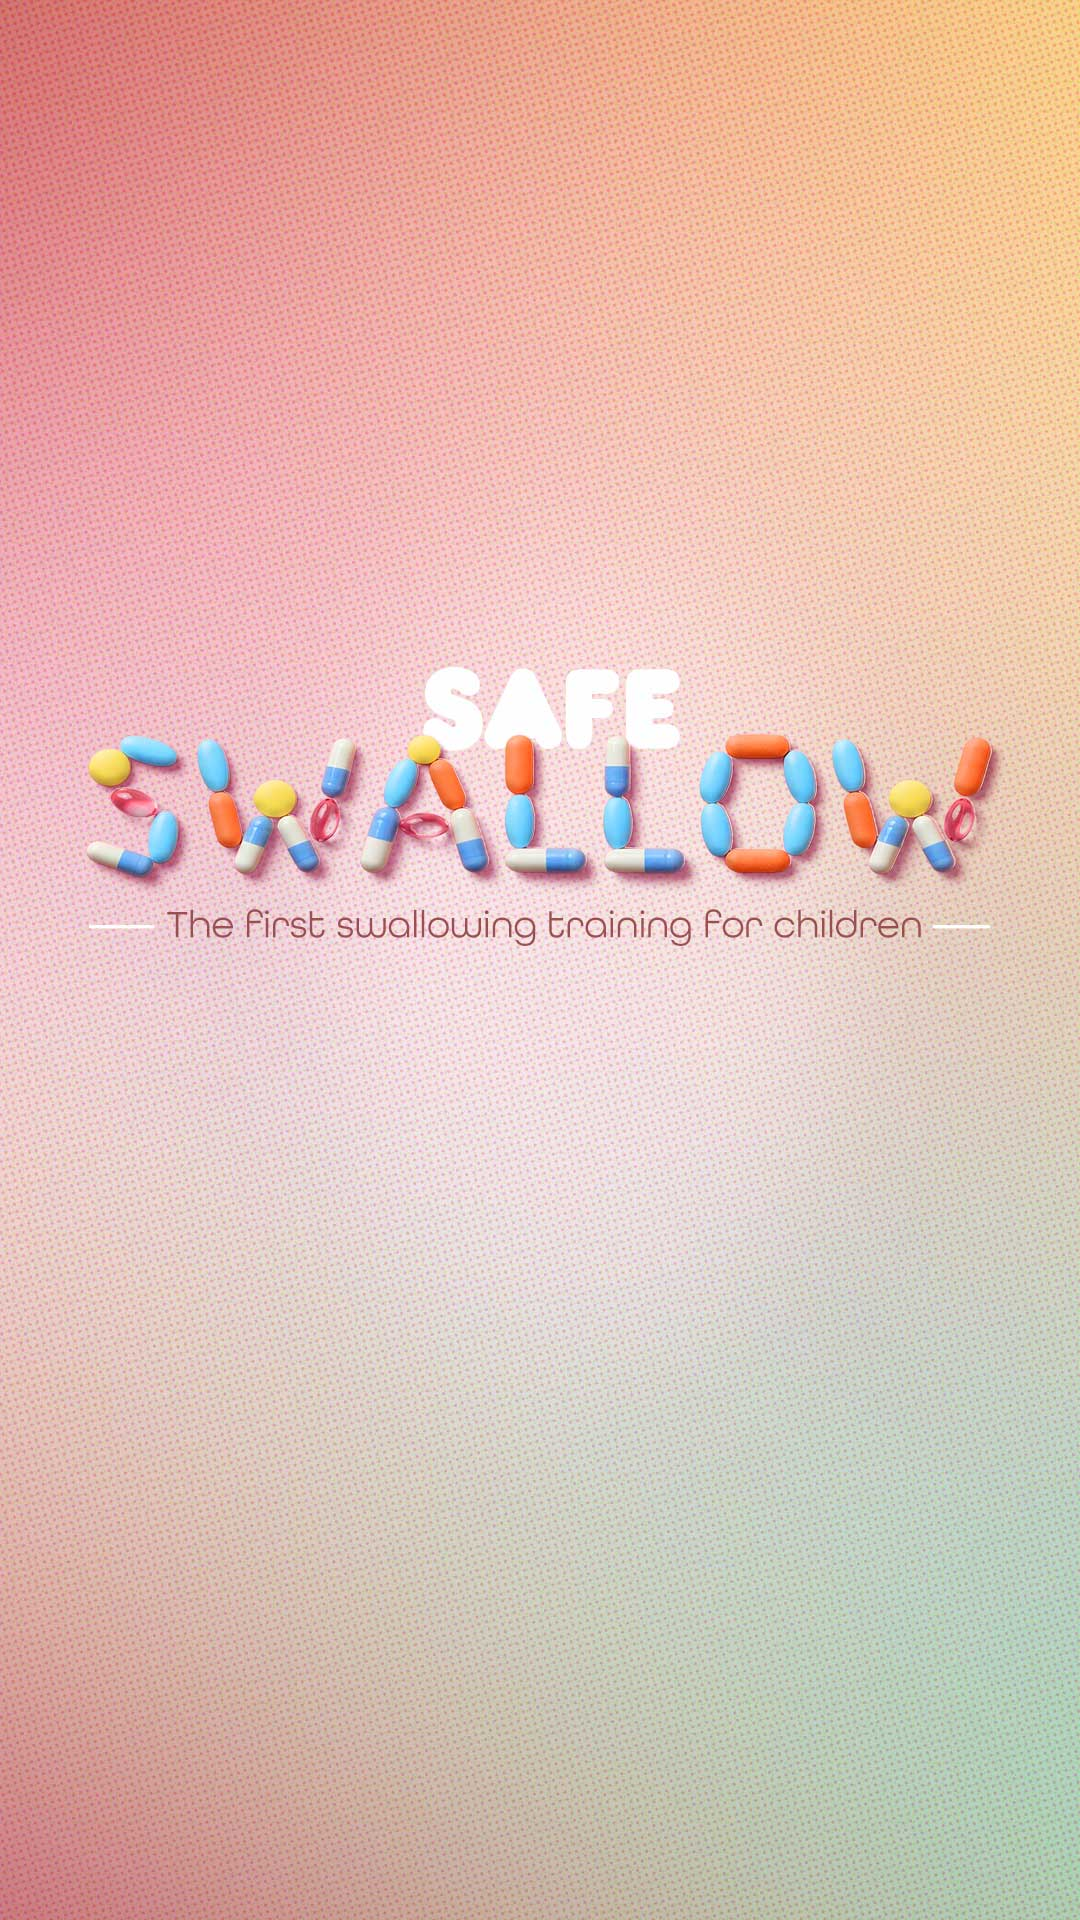
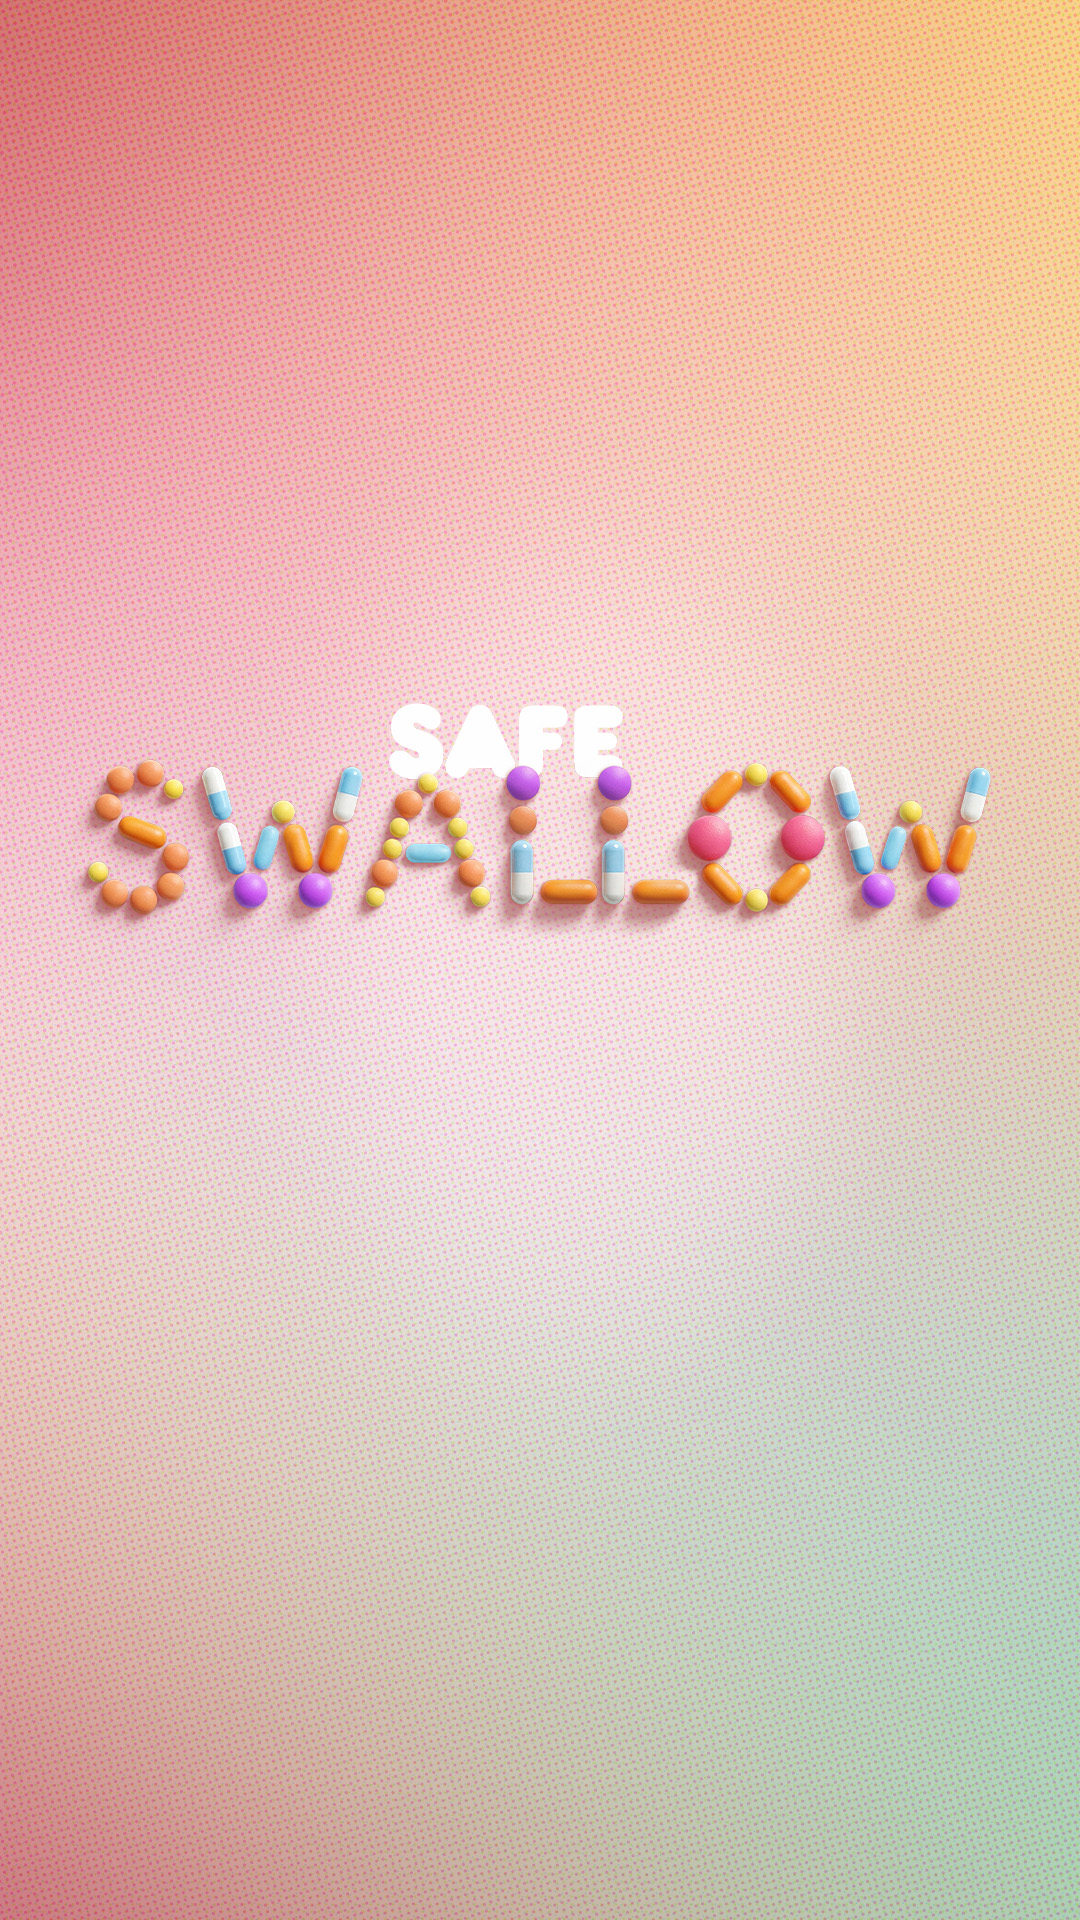
Atualiza imagens: bgCaixas para tela de caixas

Changed region(s): [[0.0611, 0.3438, 0.9472, 0.5], [0.0306, 0.5, 0.0611, 0.5312]]

diff --git a/src/index.css b/src/index.css
@@ -71,7 +71,7 @@
 }
 
 .bg-clean {
-  background: url('/images/bgLimpo_v2.jpg') no-repeat center center;
+  background: url('/images/bgCaixas.jpg') no-repeat center center;
   background-size: cover;
   position: relative;
 }

diff --git a/src/App.tsx b/src/App.tsx
@@ -63,6 +63,7 @@ export default function App() {
       '/images/Caixas/Caixa7.png',
       '/images/BGComLogo_v2.jpg',
       '/images/TelaAbertura_v2.jpg',
+      '/images/bgCaixas.jpg',
       '/images/bgComoFunciona_v2.jpg',
       '/images/bgLigarACamera_v2.jpg',
       '/images/bgTelaFinal_v2.jpg'